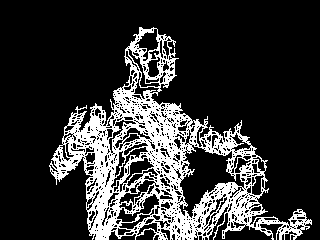
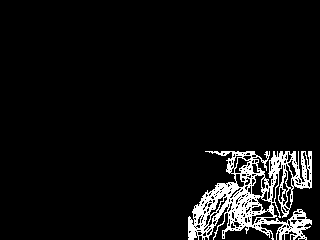
algoritmo raroooo

diff --git a/depth.py b/depth.py
@@ -37,8 +37,11 @@ centro_mano = (173,251)
 #Monitor
 # centro_mano = (127,137)
 
-fixed_threshold = 13
-scalar = 1.65
+fixed_threshold = 200
+scalar = 2
+
+# fixed_threshold = 180
+# scalar = 2
 
 
 def segmentate(image,bounds):
@@ -197,7 +200,7 @@ def segmentate_iterative(image, bounds):
 def object_border(image, bounds):
     result = np.zeros(image.shape)
     height, width = image.shape
-    x,y,w,h, = bounds
+    y,x,h,w, = bounds
     check_gradient = np.full(image.shape,False)
     # center = (x+w/2,y+h/2)
     center = centro_mano
@@ -209,7 +212,7 @@ def object_border(image, bounds):
     pixel = center
     bot = center
     #Iterate to the top until the gradient is too high
-    while pixel[0] + 1 < x+w:
+    while pixel[0] + 1 < h:
 
         pixel = (pixel[0]+1,pixel[1])
         dynamic_i_min = gradient/scalar
@@ -227,7 +230,7 @@ def object_border(image, bounds):
     top = center
 
     #Iterate to the bottom until the gradient is too high
-    while pixel[0] - 1 > x:
+    while pixel[0] - 1 > y:
 
         pixel = (pixel[0]-1,pixel[1])
         dynamic_i_min = gradient/scalar
@@ -245,7 +248,7 @@ def object_border(image, bounds):
     left = center
 
     #Iterate to the left until the gradient is too high
-    while pixel[1] - 1 > y:
+    while pixel[1] - 1 > x:
         pixel = (pixel[0],pixel[1]-1)
         dynamic_j_min = gradient/scalar
         dynamic_j_max = gradient*scalar
@@ -262,7 +265,7 @@ def object_border(image, bounds):
     right = center
 
     #Iterate to the right until the gradient is too high
-    while pixel[1] + 1 < y+h:
+    while pixel[1] + 1 < w:
         pixel = (pixel[0],pixel[1]+1)
         dynamic_j_min = gradient/scalar
         dynamic_j_max = gradient*scalar
@@ -279,7 +282,7 @@ def object_border(image, bounds):
     stack.append(top)
     while len(stack) > 0:
         pixel = stack.pop()
-        if pixel[0] + 1 < x+w and not check_gradient[pixel[0]+1][pixel[1]]:
+        if pixel[0] + 1 < h and not check_gradient[pixel[0]+1][pixel[1]]:
             #The pixel is inside the bounds and has not been checked
             dynamic_i_min = gradient[0]/scalar
             dynamic_i_max = gradient[0]*scalar
@@ -319,10 +322,10 @@ def object_border(image, bounds):
                 if top_gradient > fixed_threshold or right_gradient > fixed_threshold or left_gradient > fixed_threshold or dynamic_top_min < top_gradient < dynamic_top_max or dynamic_right_min < right_gradient < dynamic_right_max or dynamic_left_min < left_gradient < dynamic_left_max:
                     result[pixel[0]+1][pixel[1]] = 1
                     stack.append((pixel[0]+1,pixel[1]))
-            # else:
-            #     #The pixel is outside the gradient
-            #     result[pixel[0]+1][pixel[1]] = 0
-        if pixel[0] - 1 > x and not check_gradient[pixel[0]-1][pixel[1]]:
+            else:
+                #The pixel is outside the gradient
+                result[pixel[0]+1][pixel[1]] = 0
+        if pixel[0] - 1 > y and not check_gradient[pixel[0]-1][pixel[1]]:
             #The pixel is inside the bounds and has not been checked
             dynamic_i_min = gradient[0]/scalar
             dynamic_i_max = gradient[0]*scalar
@@ -362,10 +365,10 @@ def object_border(image, bounds):
                 if bot_gradient > fixed_threshold or right_gradient > fixed_threshold or left_gradient > fixed_threshold or dynamic_bot_min < bot_gradient < dynamic_bot_max or dynamic_right_min < right_gradient < dynamic_right_max or dynamic_left_min < left_gradient < dynamic_left_max:
                     result[pixel[0]-1][pixel[1]] = 1
                     stack.append((pixel[0]-1,pixel[1]))
-            # else:
-            #     #The pixel is outside the gradient
-            #     result[pixel[0]-1][pixel[1]] = 0
-        if pixel[1] + 1 < y+h and not check_gradient[pixel[0]][pixel[1]+1]:
+            else:
+                #The pixel is outside the gradient
+                result[pixel[0]-1][pixel[1]] = 0
+        if pixel[1] + 1 < w and not check_gradient[pixel[0]][pixel[1]+1]:
             #The pixel is inside the bounds and has not been checked
             dynamic_j_min = gradient[1]/scalar
             dynamic_j_max = gradient[1]*scalar
@@ -404,10 +407,10 @@ def object_border(image, bounds):
                 if top_gradient > fixed_threshold or right_gradient > fixed_threshold or bot_gradient > fixed_threshold or dynamic_top_min < top_gradient < dynamic_top_max or dynamic_right_min < right_gradient < dynamic_right_max or dynamic_bot_min < bot_gradient < dynamic_bot_max:
                     result[pixel[0]][pixel[1]+1] = 1
                     stack.append((pixel[0],pixel[1]+1))
-            # else:
-            #     #The pixel is outside the gradient
-            #     result[pixel[0]][pixel[1]+1] = 0
-        if pixel[1] - 1 > y and not check_gradient[pixel[0]][pixel[1]-1]:
+            else:
+                #The pixel is outside the gradient
+                result[pixel[0]][pixel[1]+1] = 0
+        if pixel[1] - 1 > x and not check_gradient[pixel[0]][pixel[1]-1]:
             #The pixel is inside the bounds and has not been checked
             dynamic_j_min = gradient[1]/scalar
             dynamic_j_max = gradient[1]*scalar
@@ -447,9 +450,9 @@ def object_border(image, bounds):
                 if top_gradient > fixed_threshold or left_gradient > fixed_threshold or bot_gradient > fixed_threshold or dynamic_top_min < top_gradient < dynamic_top_max or dynamic_left_min < left_gradient < dynamic_left_max or dynamic_bot_min < bot_gradient < dynamic_bot_max:
                     result[pixel[0]][pixel[1]-1] = 1
                     stack.append((pixel[0],pixel[1]-1))
-            # else:
-            #     #The pixel is outside the gradient
-            #     result[pixel[0]][pixel[1]-1] = 0
+            else:
+                #The pixel is outside the gradient
+                result[pixel[0]][pixel[1]-1] = 0
 
     return result
 
@@ -539,7 +542,7 @@ if __name__ == "__main__":
     data= np.loadtxt("src/depth/0.csv", delimiter=",", skiprows=0)
     t1 = time.time()
     # img = segmentate_iterative(data, (0,0,240,320))
-    img = object_border(data, (0,0,240,320))
+    img = object_border(data, (150,187,240,320))
     t2 = time.time()
     print(t2-t1)
     # show_img(data)
